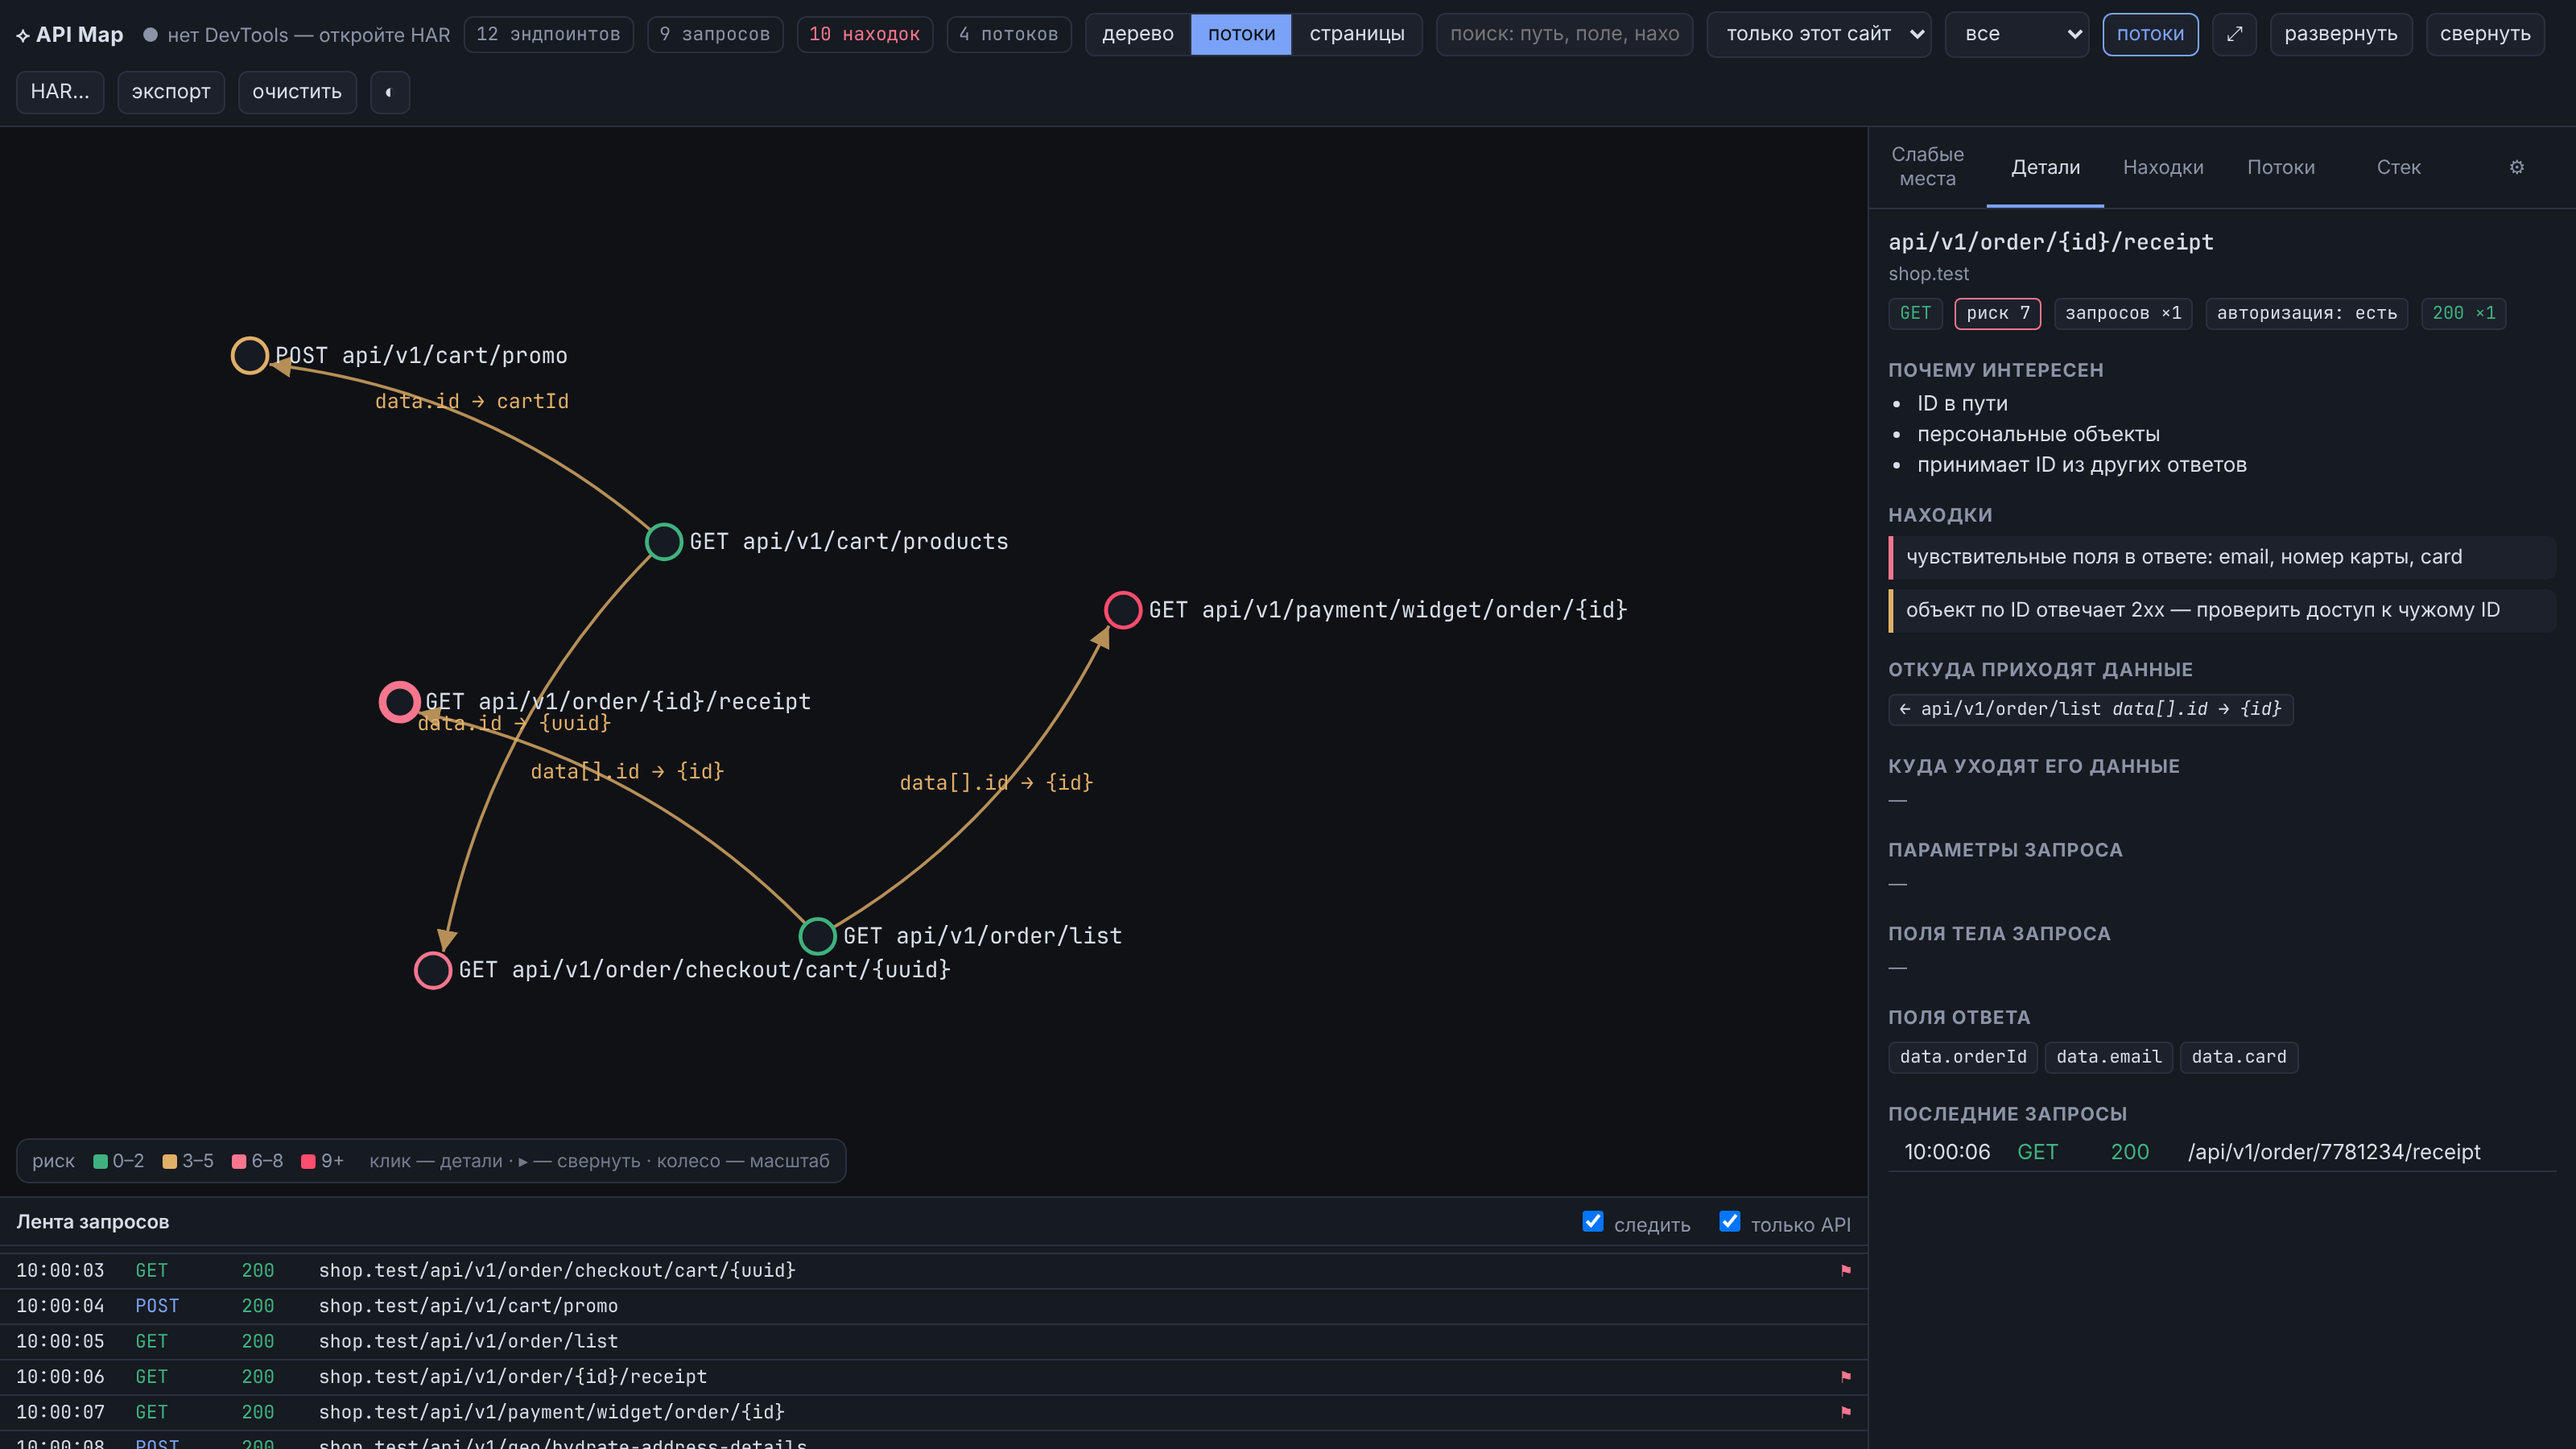
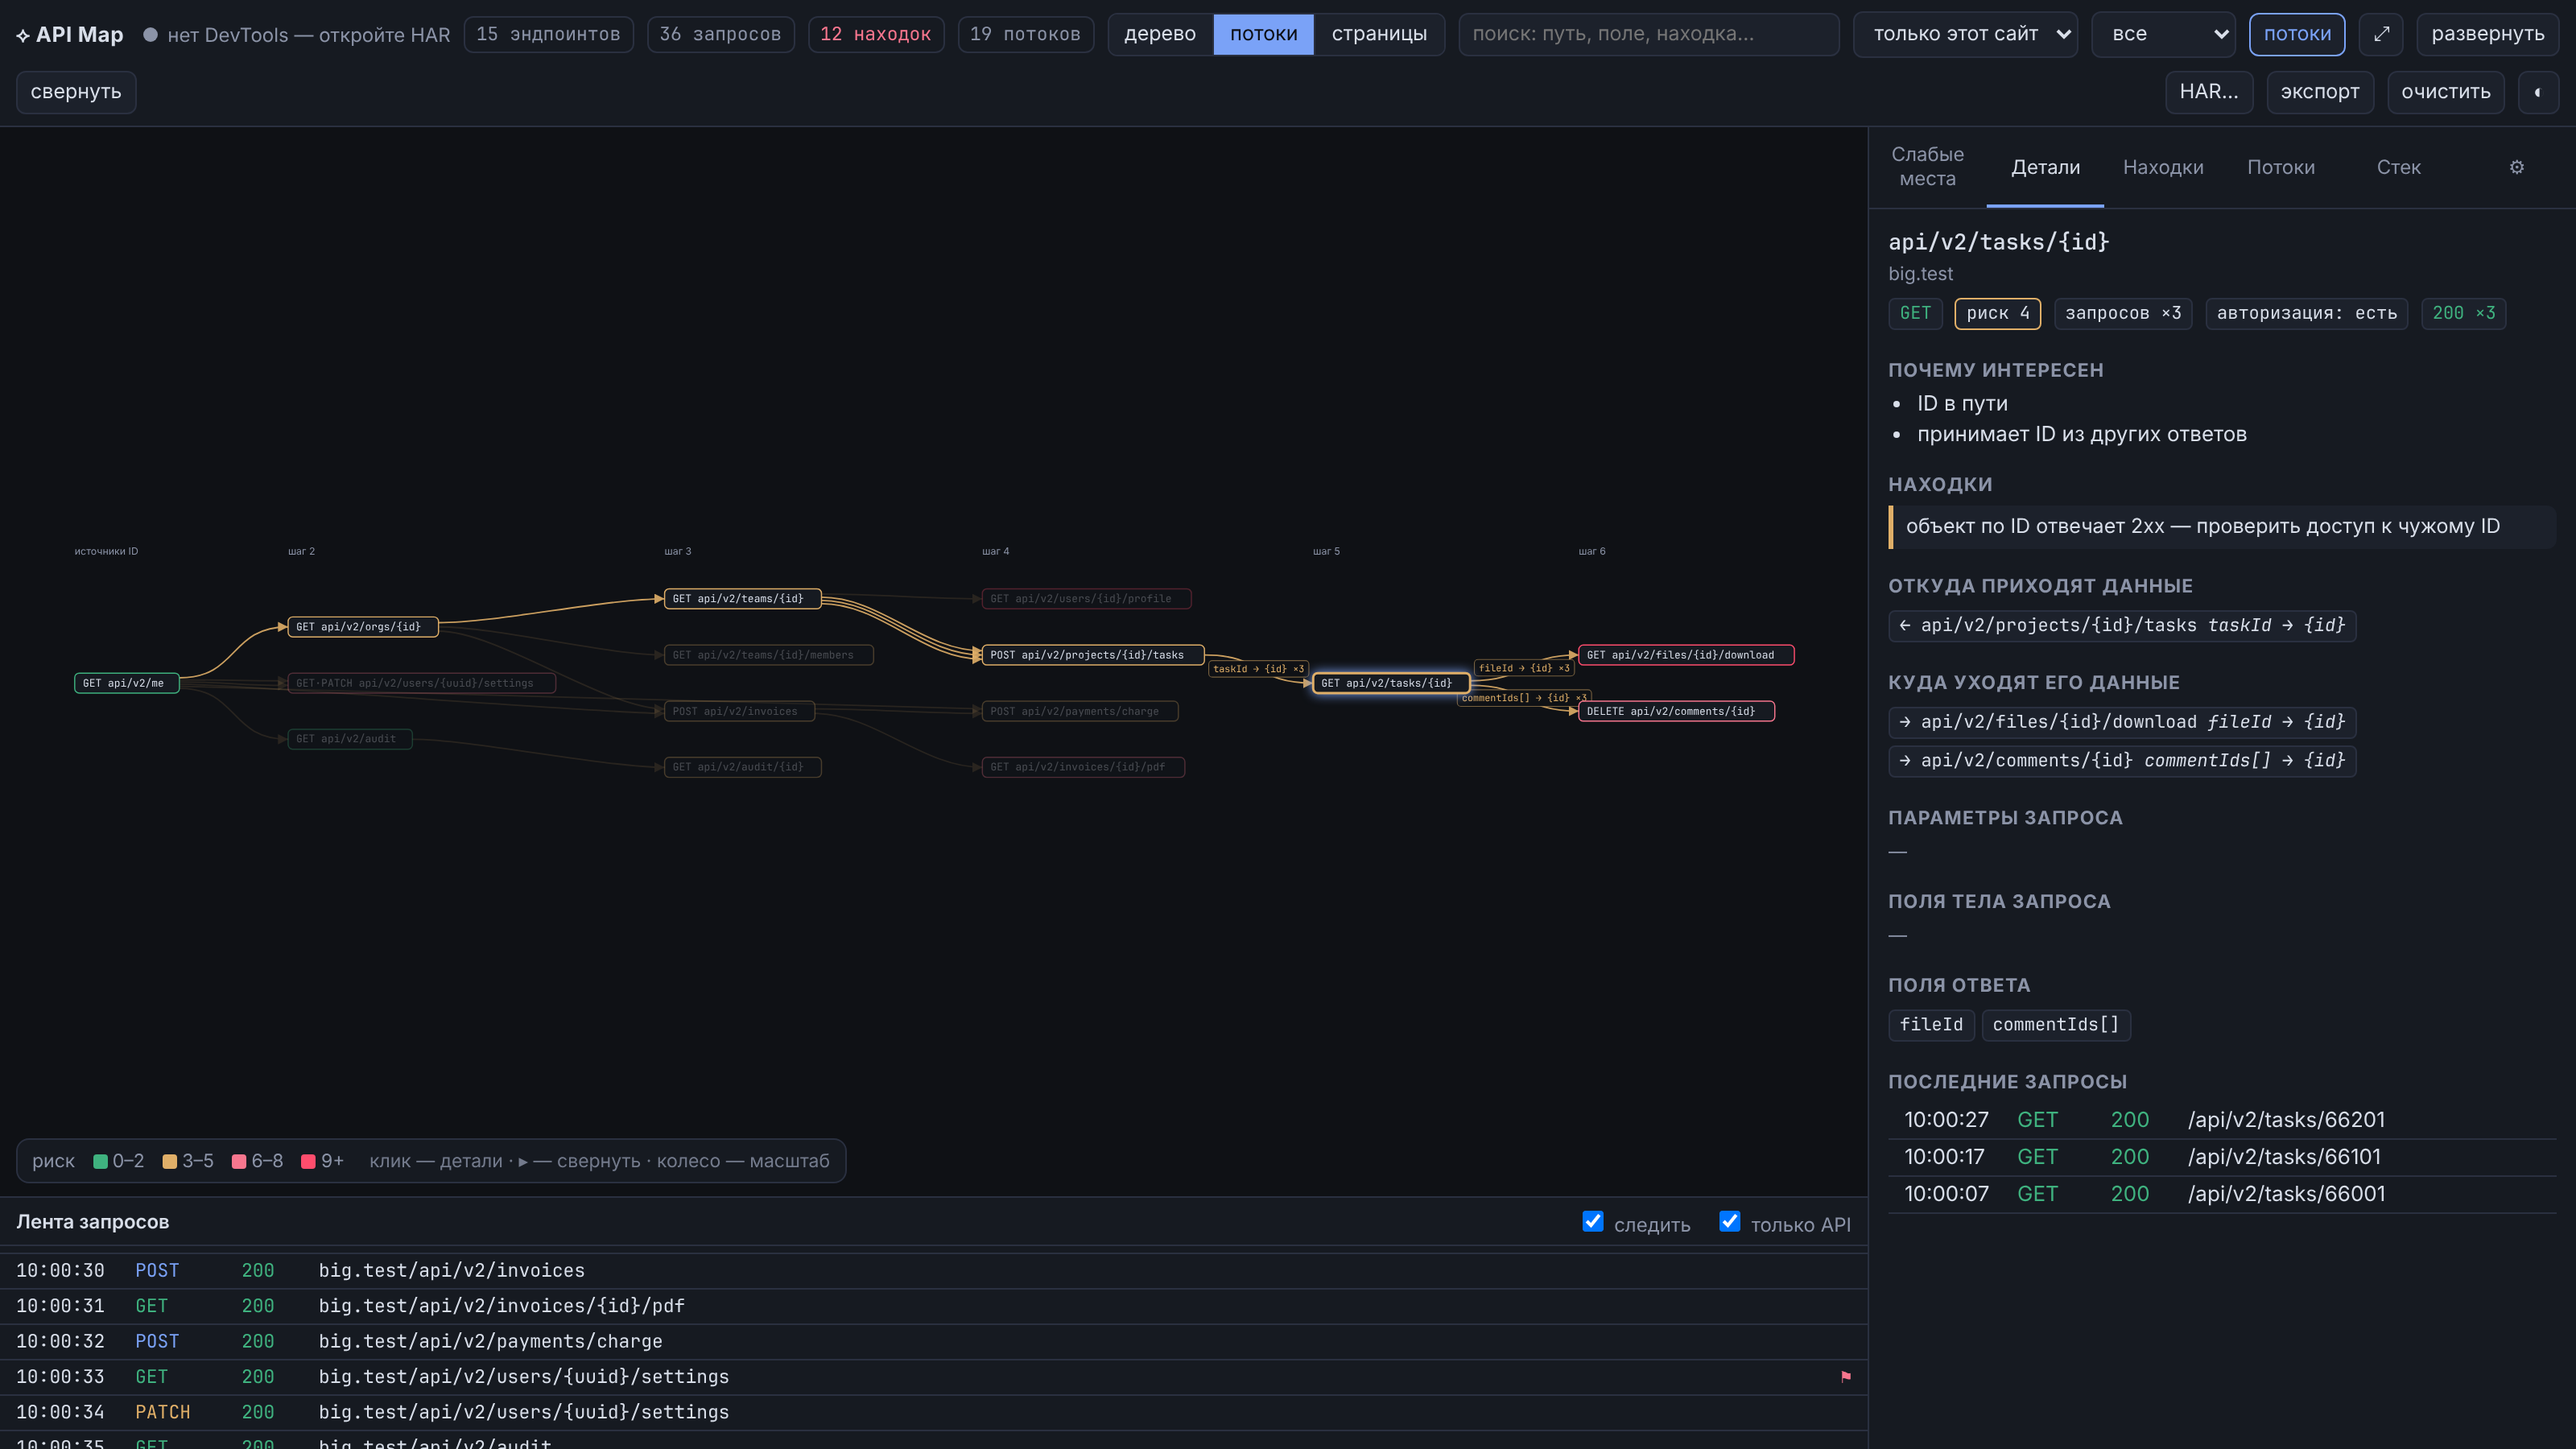
Flow graph: layered left-to-right layout, crossing reduction, chain focus, label pills
Claude-Session: https://claude.ai/code/session_01BXB456uWJG4XQFNVRgCXe1

diff --git a/apimap-ext/panel.js b/apimap-ext/panel.js
@@ -119,7 +119,7 @@
   let sim = null;
   const zoom = d3.zoom().scaleExtent([0.08, 3]).on("zoom", ev => g.attr("transform", ev.transform));
   svg.call(zoom).on("dblclick.zoom", null);
-  svg.on("click", ev => { if (ev.target === svg.node()) { selEp = null; highlight(); } });
+  svg.on("click", ev => { if (ev.target === svg.node()) { selEp = null; selPage = null; if (view === "tree") highlight(); else schedule(true); } });
   let lastRoot = null, firstFit = true, renderT = null, pending = false;
   const DX = 26, DY = 210;
 
@@ -217,63 +217,101 @@
   // ---------- view: flow graph ----------
   function short(k) { return k.split("/").slice(1).join("/"); }
   function renderFlowGraph(ff) {
-    const fl = eng.flowList().filter(f => { const a = eng.endpoint(f.from), b = eng.endpoint(f.to); return a && b && ff(a) && ff(b); });
+    if (sim) { sim.stop(); sim = null; }
+    gv.selectAll("*").remove();
+    const fl = eng.flowList().filter(f => { const a = eng.endpoint(f.from), b = eng.endpoint(f.to); return a && b && f.from !== f.to && ff(a) && ff(b); });
     if (!fl.length) {
-      if (sim) { sim.stop(); sim = null; }
-      gv.selectAll("*").remove();
-      gv.append("text").attr("x", 0).attr("y", 0).attr("fill", "var(--mute)").style("font", "14px var(--sans)")
+      gv.append("text").attr("fill", "var(--mute)").style("font", "14px var(--sans)")
         .text("Потоков ID пока нет: пройдите цепочку «список → объект → действие» (с Disable cache).");
       if (firstFit) { firstFit = false; fit(); }
       return;
     }
+    // --- graph ---
     const ids = [...new Set(fl.flatMap(f => [f.from, f.to]))];
-    const old = new Map((sim ? sim.nodes() : []).map(n => [n.id, n]));
-    const nodes = ids.map(id => old.get(id) || { id });
-    const links = fl.map(f => ({ source: f.from, target: f.to, f }));
-    gv.selectAll(":scope > text").remove();
-    const le = gv.selectAll("g.ge").data(links, d => d.f.from + ">" + d.f.to + d.f.field);
-    const lee = le.enter().append("g").attr("class", "ge");
-    lee.append("path").attr("class", "gedge").attr("marker-end", "url(#arr)");
-    lee.append("text").attr("class", "gedge-l").attr("text-anchor", "middle");
-    le.exit().remove();
-    const ne = gv.selectAll("g.gnode").data(nodes, d => d.id);
-    const nee = ne.enter().append("g").attr("class", "gnode")
-      .call(d3.drag().on("start", (ev, d) => { if (!ev.active) sim.alphaTarget(0.2).restart(); d.fx = d.x; d.fy = d.y; })
-        .on("drag", (ev, d) => { d.fx = ev.x; d.fy = ev.y; }).on("end", (ev, d) => { if (!ev.active) sim.alphaTarget(0); }))
-      .on("click", (ev, d) => { ev.stopPropagation(); selEp = d.id; showEp(d.id); markFlow(); });
-    nee.append("rect").attr("class", "hit").attr("x", -12).attr("y", -12).attr("height", 24).attr("fill", "transparent");
-    nee.append("circle").attr("r", 9);
-    nee.append("text").attr("x", 13).attr("dy", "0.32em");
-    ne.exit().remove();
-    const allN = nee.merge(ne), allL = lee.merge(le);
-    allN.select("circle").attr("stroke", d => col((eng.endpoint(d.id) || {}).score || 0));
-    allN.select("text").text(d => { const e = eng.endpoint(d.id); return [...(e ? e.methods : [])].join("·") + " " + short(d.id); });
-    allL.select("text").text(d => d.f.field + (d.f.count > 1 ? " ×" + d.f.count : ""));
-    allN.each(function () { d3.select(this).select("rect.hit").attr("width", this.querySelector("text").getComputedTextLength() + 30); });
-    if (sim) sim.stop();
-    sim = d3.forceSimulation(nodes)
-      .force("link", d3.forceLink(links).id(d => d.id).distance(230).strength(0.6))
-      .force("charge", d3.forceManyBody().strength(-900))
-      .force("x", d3.forceX().strength(0.04)).force("y", d3.forceY().strength(0.06))
-      .force("collide", d3.forceCollide(70))
-      .on("tick", () => {
-        allL.select("path").attr("d", d => {
-          const dx = d.target.x - d.source.x, dy = d.target.y - d.source.y, L = Math.hypot(dx, dy) || 1;
-          const tx = d.target.x - dx / L * 11, ty = d.target.y - dy / L * 11;
-          return `M${d.source.x},${d.source.y} Q${(d.source.x + tx) / 2 - dy * 0.15},${(d.source.y + ty) / 2 + dx * 0.15} ${tx},${ty}`;
-        });
-        allL.select("text").attr("x", d => (d.source.x + d.target.x) / 2 - (d.target.y - d.source.y) * 0.08)
-          .attr("y", d => (d.source.y + d.target.y) / 2 + (d.target.x - d.source.x) * 0.08 - 4);
-        allN.attr("transform", d => `translate(${d.x},${d.y})`);
-      })
-;
-    // settle the layout before first paint so the view can be fitted immediately
-    if (!nodes.some(n => n.x !== undefined && old.has(n.id))) { sim.stop(); for (let i = 0; i < 300; i++) sim.tick(); sim.alpha(0.05).restart(); }
-    sim.on("tick")();
+    const out = new Map(ids.map(i => [i, []])), inc = new Map(ids.map(i => [i, []]));
+    fl.forEach(f => { out.get(f.from).push(f.to); inc.get(f.to).push(f.from); });
+    // layers: longest path from sources, cycle-safe (DFS marks back edges)
+    const layer = new Map(), state = new Map(), back = new Set();
+    const visit = v => {
+      state.set(v, 1);
+      for (const w of out.get(v)) {
+        if (state.get(w) === 1) { back.add(v + ">" + w); continue; }
+        if (!state.get(w)) visit(w);
+      }
+      state.set(v, 2);
+    };
+    ids.filter(i => !inc.get(i).length).concat(ids).forEach(i => { if (!state.get(i)) visit(i); });
+    const order = []; const seen = new Set();
+    const topo = v => { if (seen.has(v)) return; seen.add(v); inc.get(v).forEach(u => { if (!back.has(u + ">" + v)) topo(u); }); order.push(v); };
+    ids.forEach(topo);
+    order.forEach(v => layer.set(v, Math.max(0, ...inc.get(v).filter(u => !back.has(u + ">" + v)).map(u => (layer.get(u) ?? -1) + 1))));
+    const cols = []; ids.forEach(i => { const l = layer.get(i); (cols[l] = cols[l] || []).push(i); });
+    // crossing reduction: barycenter sweeps
+    const pos = new Map(); cols.forEach(c => c.forEach((v, i) => pos.set(v, i)));
+    for (let it = 0; it < 6; it++) {
+      const sweep = (c, nb) => { c.sort((a, b) => bary(a, nb) - bary(b, nb)); c.forEach((v, i) => pos.set(v, i)); };
+      const bary = (v, nb) => { const n = nb(v); return n.length ? n.reduce((s, u) => s + pos.get(u), 0) / n.length : pos.get(v); };
+      for (let l = 1; l < cols.length; l++) sweep(cols[l], v => inc.get(v));
+      for (let l = cols.length - 2; l >= 0; l--) sweep(cols[l], v => out.get(v));
+    }
+    // --- geometry ---
+    const label = v => { const e = eng.endpoint(v); return [...(e ? e.methods : [])].join("·") + " " + short(v); };
+    const meas = gv.append("text").style("font", "12px var(--mono)");
+    const W = new Map(ids.map(v => { meas.text(label(v)); return [v, meas.node().getComputedTextLength() + 22]; }));
+    meas.remove();
+    const colW = cols.map(c => Math.max(...c.map(v => W.get(v))));
+    const GAP = 120, RH = 62;
+    const xs = []; let x = 0; colW.forEach((w, i) => { xs[i] = x; x += w + GAP; });
+    const maxRows = Math.max(...cols.map(c => c.length));
+    const P = new Map();
+    cols.forEach((c, l) => c.forEach((v, i) => P.set(v, { x: xs[l], y: (i - (c.length - 1) / 2) * RH, w: W.get(v) })));
+    // --- focus set: full upstream + downstream chain of the selected node ---
+    const chain = new Set();
+    if (selEp && P.has(selEp)) {
+      const up = v => { if (chain.has("u" + v)) return; chain.add("u" + v); chain.add(v); inc.get(v).forEach(up); };
+      const dn = v => { if (chain.has("d" + v)) return; chain.add("d" + v); chain.add(v); out.get(v).forEach(dn); };
+      up(selEp); dn(selEp);
+    }
+    const inChain = v => !selEp || !P.has(selEp) || chain.has(v);
+    const showLabels = fl.length <= 14;
+    // --- edges ---
+    const eg = gv.append("g");
+    const edges = fl.map(f => ({ f, a: P.get(f.from), b: P.get(f.to), back: back.has(f.from + ">" + f.to) }));
+    // spread ports so parallel edges don't stack
+    const portOut = new Map(), portIn = new Map();
+    edges.forEach(e => { (portOut.get(e.f.from) || portOut.set(e.f.from, []).get(e.f.from)).push(e); (portIn.get(e.f.to) || portIn.set(e.f.to, []).get(e.f.to)).push(e); });
+    const off = (arr, e) => { const n = arr.length, i = arr.indexOf(e); return n > 1 ? (i - (n - 1) / 2) * Math.min(5, 14 / n) : 0; };
+    portOut.forEach(a => a.sort((p, q) => p.b.y - q.b.y)); portIn.forEach(a => a.sort((p, q) => p.a.y - q.a.y));
+    edges.forEach(e => {
+      const x1 = e.a.x + e.a.w, y1 = e.a.y + off(portOut.get(e.f.from), e), x2 = e.b.x, y2 = e.b.y + off(portIn.get(e.f.to), e);
+      e.d = e.back
+        ? `M${x1},${y1} C${x1 + 60},${y1} ${x1 + 60},${Math.max(y1, y2) + RH} ${(x1 + x2) / 2},${Math.max(y1, y2) + RH} S${x2 - 60},${y2} ${x2},${y2}`
+        : `M${x1},${y1} C${x1 + GAP * 0.55},${y1} ${x2 - GAP * 0.55},${y2} ${x2},${y2}`;
+      e.mx = (x1 + x2) / 2; e.my = (y1 + y2) / 2;
+      e.on = inChain(e.f.from) && inChain(e.f.to);
+    });
+    eg.selectAll("path").data(edges).join("path").attr("class", "gedge").attr("d", e => e.d).attr("marker-end", "url(#arr)")
+      .style("opacity", e => e.on ? 0.9 : 0.12).style("stroke-dasharray", e => e.back ? "5 4" : null)
+      .append("title").text(e => `${e.f.field} ×${e.f.count}\n${short(e.f.from)} → ${short(e.f.to)}`);
+    // labels as pills, only when readable
+    const lab = gv.append("g").selectAll("g").data(edges.filter(e => (showLabels && e.on) || (selEp && (e.f.from === selEp || e.f.to === selEp)))).join("g")
+      .attr("transform", e => `translate(${e.mx},${e.my})`);
+    lab.append("rect").attr("rx", 4).attr("fill", "var(--bg)").attr("stroke", "var(--flow)").attr("stroke-opacity", 0.5);
+    lab.append("text").attr("class", "gedge-l").attr("text-anchor", "middle").attr("dy", "0.32em").text(e => e.f.field + (e.f.count > 1 ? " ×" + e.f.count : ""));
+    lab.each(function () { const t = this.querySelector("text").getBBox(); d3.select(this).select("rect").attr("x", t.x - 5).attr("y", t.y - 2).attr("width", t.width + 10).attr("height", t.height + 4); });
+    // --- nodes ---
+    const ng = gv.append("g").selectAll("g").data(ids).join("g").attr("class", "node gnode")
+      .attr("transform", v => `translate(${P.get(v).x},${P.get(v).y})`)
+      .classed("sel", v => v === selEp).classed("dim", v => !inChain(v))
+      .on("click", (ev, v) => { ev.stopPropagation(); selEp = selEp === v ? null : v; if (selEp) showEp(v); renderFlowGraph(ff); });
+    ng.append("rect").attr("class", "box").attr("x", 0).attr("y", -11).attr("height", 22).attr("width", v => W.get(v)).attr("stroke", v => col((eng.endpoint(v) || {}).score || 0));
+    ng.append("text").attr("x", 9).attr("dy", "0.32em").text(label);
+    // column headers
+    gv.append("g").selectAll("text").data(cols).join("text").attr("x", (c, i) => xs[i]).attr("y", -(maxRows / 2) * RH - 18)
+      .attr("fill", "var(--mute)").style("font", "11px var(--sans)").text((c, i) => i === 0 ? "источники ID" : "шаг " + (i + 1));
     if (firstFit) { firstFit = false; fit(); }
-    markFlow();
   }
-  function markFlow() { gv.selectAll("g.gnode").classed("sel", d => d.id === selEp); }
+  function markFlow() { schedule(true); }
 
   // ---------- view: pages ----------
   function renderPages(ff) {
